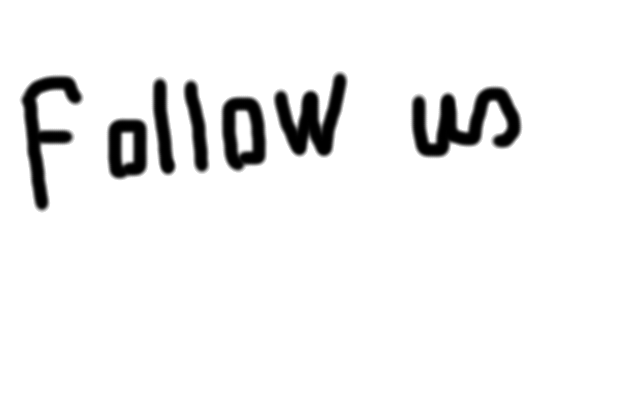
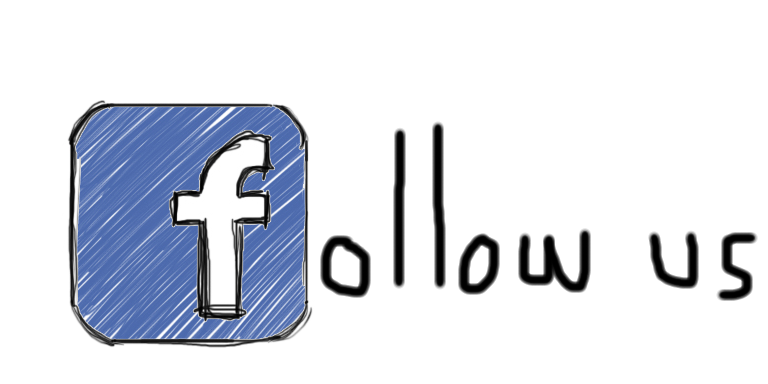
version 0.5

diff --git a/test.html b/test.html
@@ -2,6 +2,7 @@
 <html>
 <head>
 <title>OSC website</title>
+<link rel="shortcut icon" href="icon.jpg" />
 <link rel="stylesheet" href="test.css">
 </head>
 
@@ -16,51 +17,15 @@
 
 
     		<form id="contactform"> 
-    			<p class="contact"><label for="name">Name</label></p> 
-    			<input id="name" name="name" placeholder="First and last name" required="" tabindex="1" type="text"> 
-    			 
+    			<p class="contact"><label for="name">Username</label></p> 
+    			<input id="name" name="name" placeholder="First and last name" required="" tabindex="1" type="text">  
     			<p class="contact"><label for="email">Email</label></p> 
-    			<input id="email" name="email" placeholder="example@domain.com" required="" type="email"> 
-                
-                <p class="contact"><label for="username">Create a username</label></p> 
-    			<input id="username" name="username" placeholder="username" required="" tabindex="2" type="text"> 
-    			 
+	<input id="email" name="email" placeholder="example@domain.com" required="" type="email"> 
                 <p class="contact"><label for="password">Create a password</label></p> 
     			<input type="password" id="password" name="password" required=""> 
                 <p class="contact"><label for="repassword">Confirm your password</label></p> 
     			<input type="password" id="repassword" name="repassword" required=""> 
-        
-               <fieldset>
-                 <label>Birthday</label>
-                  <label class="month"> 
-                  <select class="select-style" name="BirthMonth">
-                  <option value="">Month</option>
-                  <option  value="01">January</option>
-                  <option value="02">February</option>
-                  <option value="03" >March</option>
-                  <option value="04">April</option>
-                  <option value="05">May</option>
-                  <option value="06">June</option>
-                  <option value="07">July</option>
-                  <option value="08">August</option>
-                  <option value="09">September</option>
-                  <option value="10">October</option>
-                  <option value="11">November</option>
-                  <option value="12" >December</option>
-                  </label>
-                 </select>    
-                <label>Day<input class="birthday" maxlength="2" name="BirthDay"  placeholder="Day" required=""></label>
-                <label>Year <input class="birthyear" maxlength="4" name="BirthYear" placeholder="Year" required=""></label>
-              </fieldset>
-  
-            <select class="select-style gender" name="gender">
-            <option value="select">i am..</option>
-            <option value="m">Male</option>
-            <option value="f">Female</option>
-            <option value="others">Other</option>
-            </select><br><br>
-            
-            <input class="buttom" name="submit" id="submit" tabindex="5" value="Sign me up!" type="submit" onclick="location.href='page1.html';"> 	 
+         <input class="buttom" name="submit" id="submit" tabindex="5" value="Sign me up!" type="submit" onclick="location.href='page1.html';"> 	 
    </form> 
        
 	

diff --git a/page1.html b/page1.html
@@ -19,10 +19,10 @@
 
 <body >
 <div id="image">
-<img src="followus.png"  width="200" height="80"><br>
-<a href="https://www.facebook.com/groups/OpenMinds.FCIS.ASU/" ><img src="f.jpg"  width="50" height="50"></a>
-<a href="" ><img src="y.jpg"  width="50" height="50" ></a>
-<a href=""><img src="t.jpg"  width="50" height="50"></a>
+<a href="https://www.facebook.com/groups/OpenMinds.FCIS.ASU/" ><img src="followus.png"  width="200" height="80"></a>
+<br>
+<a href="" ><img src="y.png"  width="50" height="50" ></a>
+<a href=""><img src="t.png"  width="50" height="50"></a>
 </div>
 <div id="border">
 

diff --git a/test.css b/test.css
@@ -87,7 +87,7 @@ body
 	border: 5px solid gray;
 	background-color: white;
 	z-index:1002;
-	overflow: auto;
+	
 }
 
 div#registration
